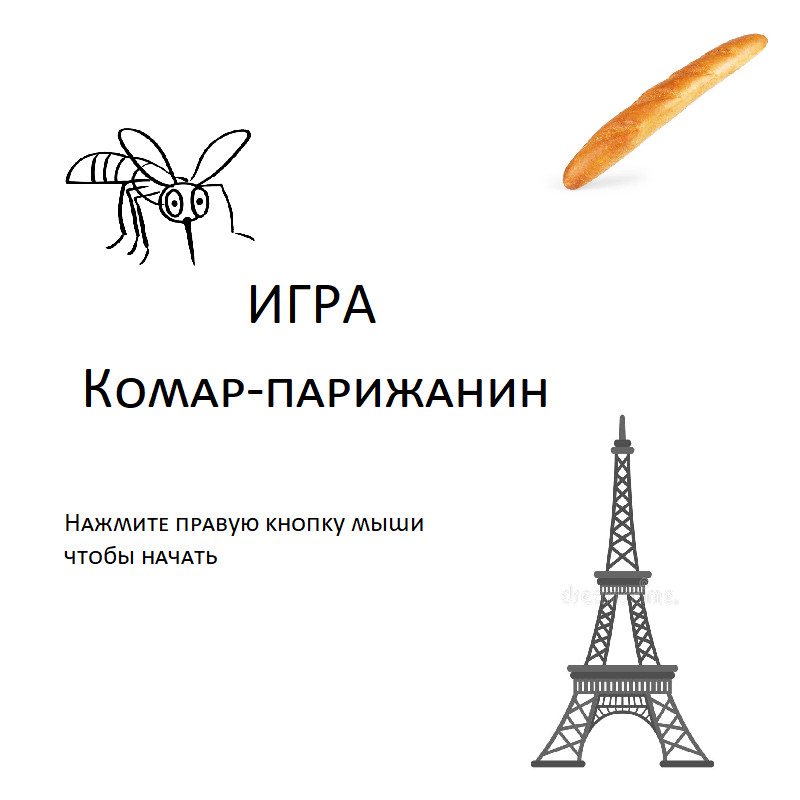
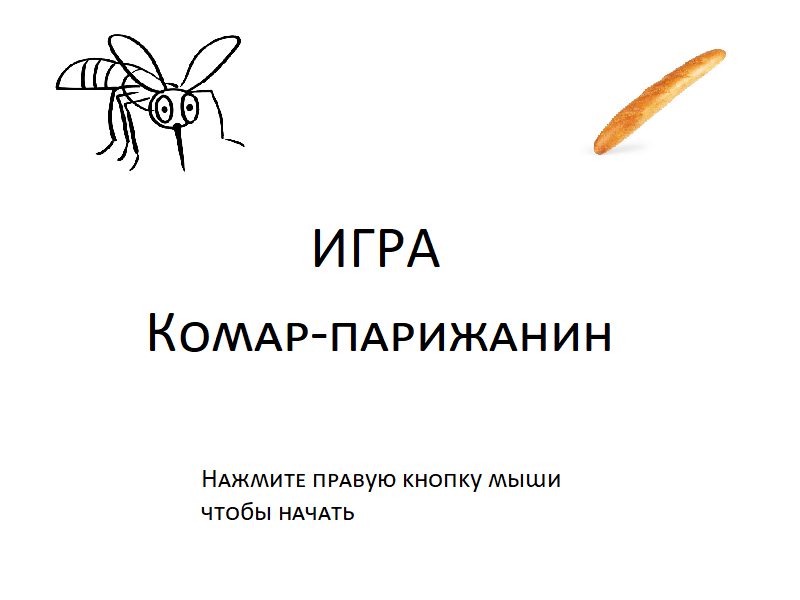
Нстроена камера которая следует за комаром. Генерируются новые острова. Есть экран конца игра

diff --git a/main.py b/main.py
@@ -5,7 +5,7 @@ import random
 
 
 pygame.init()
-size = width, height = 800, 600
+size = width, height = 550, 600
 screen = pygame.display.set_mode(size)
 clock = pygame.time.Clock()
 
@@ -18,28 +18,27 @@ def load_image(name, colorkey=None):
     image = pygame.image.load(fullname)
     return image
 
-
 intro_image = load_image('intro.png')
 all_sprites = pygame.sprite.Group()
 platforms = pygame.sprite.Group()
 background = load_image("eiffel.png")
-background = pygame.transform.scale(background, (800, 600))
-h = 580
-
+background = pygame.transform.scale(background, (550, 600))
+game_ovr = load_image('game_over.png')
+game_ovr = pygame.transform.scale(game_ovr, (500, 298))
 
 class Islands(pygame.sprite.Sprite):
-    def __init__(self, x, *group):
-        super().__init__(all_sprites)
-        global h
-        self.length = [190, 160]
-        self.num1 = random.choice(self.length)
-        # self.image = pygame.Surface((self.num1, 20))
-        # self.image.fill((0, 153, 0))
-        self.image = load_image('baget.png')
+    def __init__(self, x, hgt, *group):
+        super().__init__(platforms)
+        self.image = load_image('baget1.png')
+        # self.image = pygame.transform.scale(self.image, (205, 30))
         self.rect = self.image.get_rect()
         self.rect.x = x
-        self.rect.y = h
+        self.rect.y = hgt
 
+    def update(self, upp):
+        self.rect.y += upp
+        if self.rect.top > 600:
+            self.kill()
 
 class Komar(pygame.sprite.Sprite):
     image = load_image("komar.png")
@@ -47,17 +46,16 @@ class Komar(pygame.sprite.Sprite):
     def __init__(self, *group):
         super().__init__(all_sprites)
         self.image = Komar.image
-
         self.rect = self.image.get_rect()
         # self.mask = pygame.mask.from_surface(self.image)
         self.velocity = 0
-        self.rect.center = (300, 300)
+        self.rect.center = (350, 300)
         self.side = False
 
-    def update(self):
+    def play(self, frst):
+        up = 0
         dx = 0
         dy = 0
-
         userInput = pygame.key.get_pressed()
 
         if userInput[pygame.K_LEFT]:
@@ -76,45 +74,49 @@ class Komar(pygame.sprite.Sprite):
 
         if self.rect.left + dx < 0:
             dx = -self.rect.left
-        if self.rect.right + dx > 800:
-            dx = 800 - self.rect.right
+        if self.rect.right + dx > 550:
+            dx = 550 - self.rect.right
 
         collision = pygame.sprite.spritecollide(self, platforms, False)
         if collision:
-            if self.rect.bottom < collision[0].rect.centery:
+            if self.rect.bottom < collision[0].rect.bottom:
                 if self.velocity > 0:
                     self.rect.bottom = collision[0].rect.top
                     dy = 0
                     self.velocity = -20
+        if frst:
+            if self.rect.bottom + dy > 600:
+                dy = 0
+                self.velocity = -20
+            # else:
+            #     dy = 0
+            #     self.ve
 
-        if self.rect.bottom + dy > 600:
-            dy = 0
-            self.velocity = -20
+        if self.rect.top <= 200:
+            if self.velocity < 0:
+                up = -dy
 
         self.rect.x += dx
-        self.rect.y += dy
+        self.rect.y += dy + up
 
+        if self.rect.top > 600:
+            self.kill()
+
+        return up
 
 switch = True
 komar = Komar()
 all_sprites.add(komar)
 
-for _ in range(5):
-    for _ in range(2):
-        num_x = random.randint(-100, 750)
-        if switch:
-            island = Islands(num_x)
-            switch = False
-        else:
-            island = Islands(num_x + random.randint(300, 450))
-            switch = True
-        platforms.add(island)
-    h -= 160
-
-
 class GameStates():
     def __init__(self):
         self.state = 'intro'
+        self.start = True
+        self.limit = 15
+        self.switch = True
+        self.h = 400
+        self.island = Islands(222, 440)
+        platforms.add(self.island)
 
     def intro(self):
         for event in pygame.event.get():
@@ -133,9 +135,27 @@ class GameStates():
             if event.type == pygame.QUIT:
                 pygame.quit()
                 sys.exit()
-        screen.blit(background, (0, 0))
-        all_sprites.draw(screen)
-        all_sprites.update()
+            if event.type == pygame.KEYDOWN:
+                self.start = False
+        up = komar.play(self.start)
+        if len(all_sprites) == 1:
+            screen.blit(background, (0, 0))
+            all_sprites.draw(screen)
+            platforms.draw(screen)
+        else:
+            screen.blit(game_ovr, (25, 151))
+        if len(platforms) < self.limit:
+            for _ in range(2):
+                num_x = random.randint(-100, 350)
+                num_y = self.island.rect.y - random.randint(90, 110)
+                if self.switch:
+                    self.island = Islands(num_x, num_y)
+                    self.switch = False
+                else:
+                    self.island = Islands(num_x + random.randint(250, 350), num_y)
+                    self.switch = True
+                platforms.add(self.island)
+        platforms.update(up)
         pygame.display.flip()
 
     def state_image(self):
